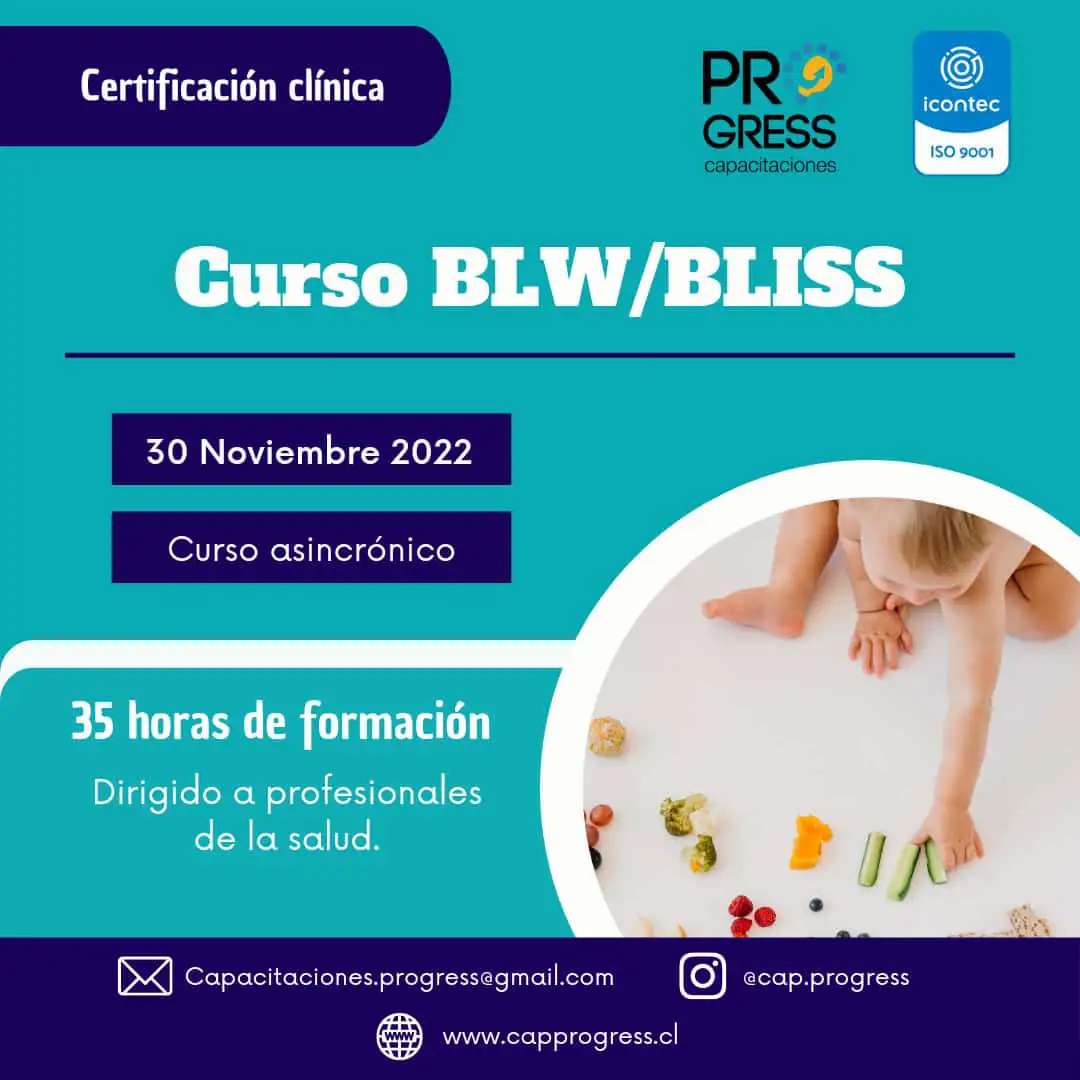
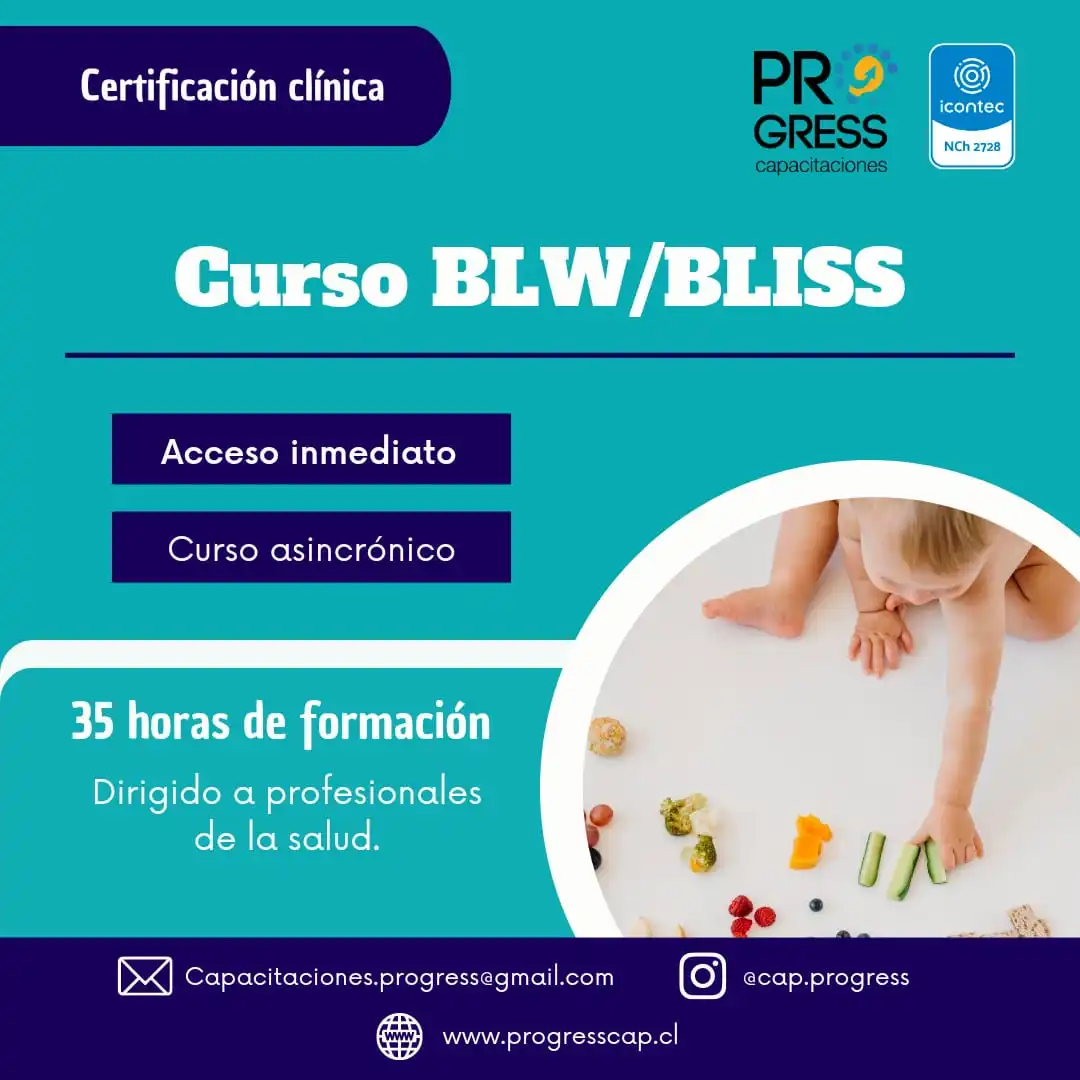
Cursos liberados

diff --git a/src/html/porteo_ergonomico.html b/src/html/porteo_ergonomico.html
@@ -13,7 +13,7 @@
 			</picture>
 
 			<div class="mask ">
-				<a href="https://drive.google.com/file/d/1kAJpcHQWAwl03W_XpHpc1DxUPVHj-OE9/view"
+				<a href="https://drive.google.com/file/d/1m1hkjcMjflcD0lLDfUfwFOFapVPomTCD/view"
 					target="_blank" rel="noopener noreferrer nofollow">
 					<div class="d-flex align-items-center justify-content-center h-100">
 
@@ -26,7 +26,7 @@
 
 		</div>
 		<div class="card-body d-flex flex-column">
-			<h5 class="card-title fw-bolder">Curso Asesor/a de Porteo Ergonómico <span class="badge badge-primary">Nuevo</span></h5>
+			<h5 class="card-title fw-bolder">Curso Asesor/a de Porteo Ergonómico <span class="badge badge-primary">Liberado</span></h5>
 			<p class="card-text text-muted lead">Curso dirigido a profesionales de la salud que quieran formarse como
 				Asesores/as de porteo ergonómico. Exponentes de todas las áreas de la salud comparten la importancia del
 				porteo en cada área.
@@ -44,7 +44,7 @@
 			</p>
 
 			<a class="btn btn-lg btn-primary mt-auto" target="_blank" rel="noopener noreferrer nofollow"
-				href="https://drive.google.com/file/d/1kAJpcHQWAwl03W_XpHpc1DxUPVHj-OE9/view"><em
+				href="https://drive.google.com/file/d/1m1hkjcMjflcD0lLDfUfwFOFapVPomTCD/view"><em
 					class="fas fa-plus fa-lg me-2"></em>información</a>
 		</div>
 

diff --git a/src/html/blw.html b/src/html/blw.html
@@ -12,7 +12,7 @@
 			</picture>
 
 			<div class="mask ">
-				<a href="https://drive.google.com/file/d/1ERzNaUjUy23ru0Qpl2qkYl5zyN7UthJT/view?usp=drivesdk"
+				<a href="https://drive.google.com/file/d/10gzRVGUxZgCrB2aKz2Jbara82VCmj20s/view"
 					target="_blank" rel="noopener noreferrer nofollow">
 					<div class="d-flex align-items-center justify-content-center h-100">
 
@@ -25,7 +25,7 @@
 
 		</div>
 		<div class="card-body d-flex flex-column">
-			<h5 class="card-title fw-bolder">Curso Método BLW y BLISS <span class="badge badge-warning">Cerrado</span></h5>
+			<h5 class="card-title fw-bolder">Curso Método BLW y BLISS <span class="badge badge-success">Liberado</span></h5>
 			<p class="card-text text-muted lead">
 				En este curso aprenderás todo lo necesario para desempeñarte como asesor/a de los métodos de
 				alimentación BLW y BLISS.
@@ -39,7 +39,7 @@
 			</ul>
 			</p>
 			<a class="btn btn-lg btn-primary mt-auto" target="_blank" rel="noopener noreferrer nofollow"
-				href="https://drive.google.com/file/d/1ERzNaUjUy23ru0Qpl2qkYl5zyN7UthJT/view?usp=drivesdk"><em
+				href="https://drive.google.com/file/d/10gzRVGUxZgCrB2aKz2Jbara82VCmj20s/view"><em
 					class="fas fa-plus fa-lg me-2"></em>información</a>
 		</div>
 

diff --git a/index.php b/index.php
@@ -98,7 +98,7 @@ header('Accept-Encoding: gzip, compress, br');
 
                             <ul class="dropdown-menu" aria-labelledby="dropdownMenuLink">
                                 <li>
-                                    <a class="dropdown-item" href="https://www.progresscap.cl/#cursos">Curso Porteo Ergonómico <span class="badge badge-primary">Nuevo</span></a>
+                                    <a class="dropdown-item" href="https://www.progresscap.cl/#cursos">Curso Porteo Ergonómico <span class="badge badge-success">Liberado</span></a>
                                 </li>
 
                                 <li>
@@ -118,7 +118,7 @@ header('Accept-Encoding: gzip, compress, br');
                                 </li>
                                 
                                 <li>
-                                    <a class="dropdown-item" href="https://www.progresscap.cl/#cursos">Curso Método BLW y BLISS <span class="badge badge-warning">Cerrado</span></a>
+                                    <a class="dropdown-item" href="https://www.progresscap.cl/#cursos">Curso Método BLW y BLISS <span class="badge badge-success">Liberado</span></a>
                                 </li>
                             </ul>
                         </div>
